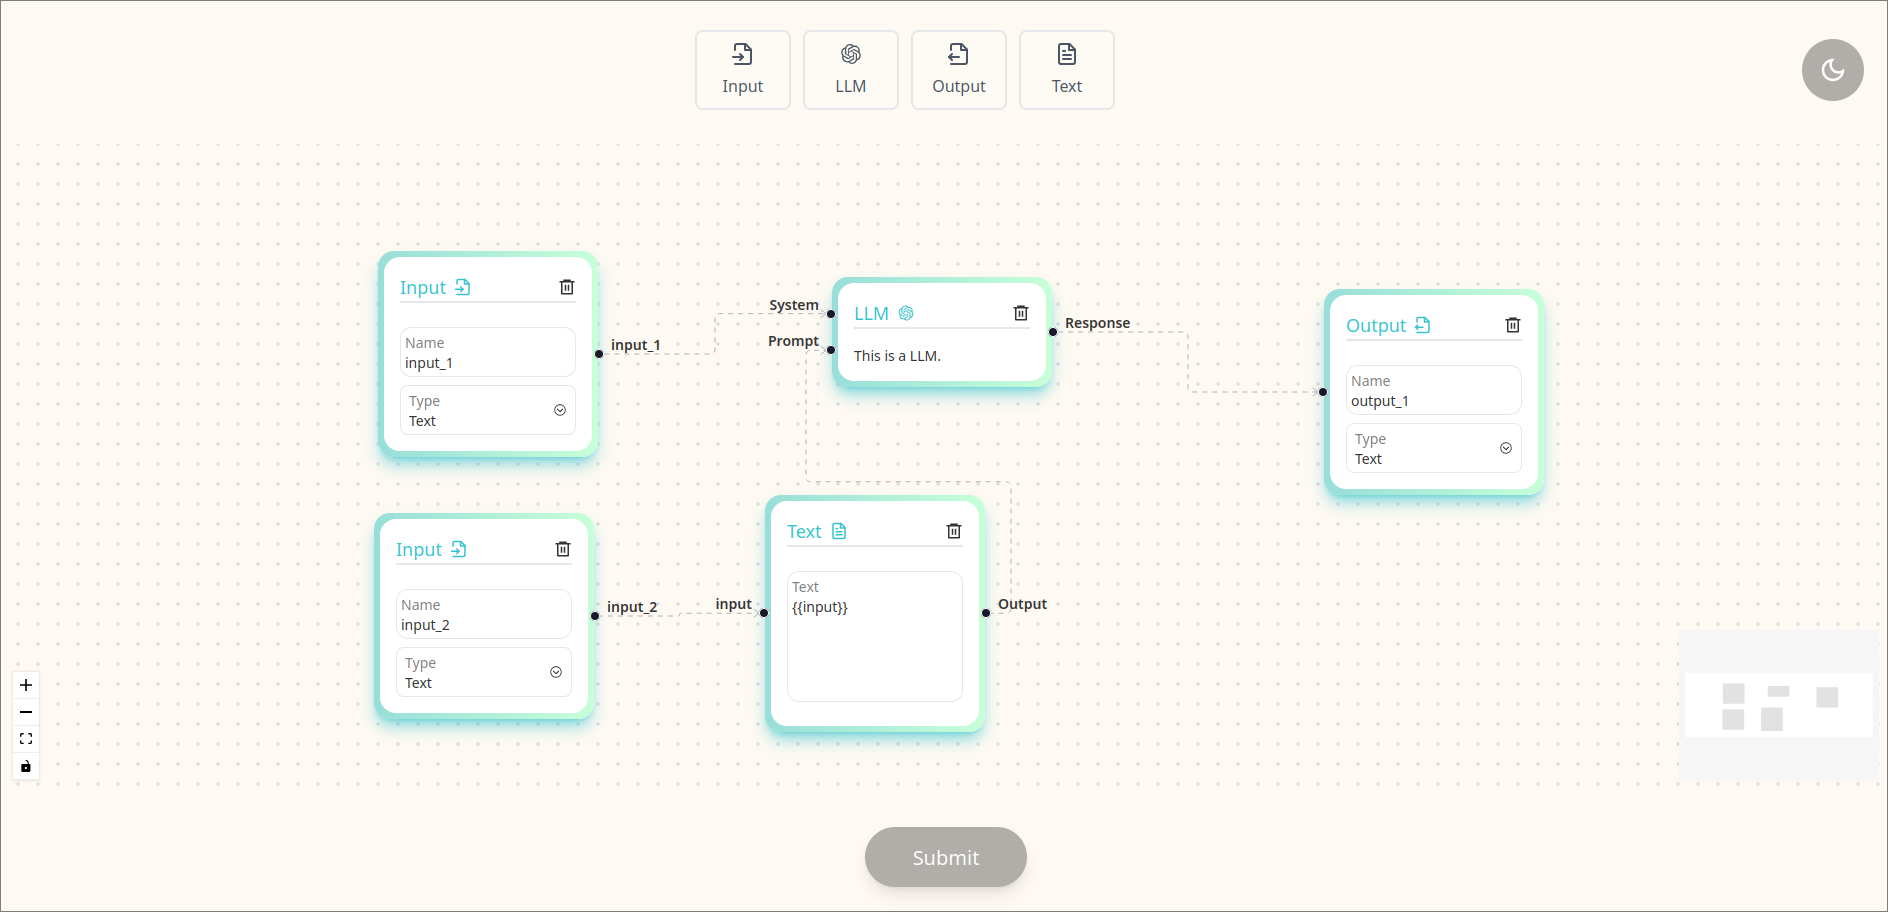
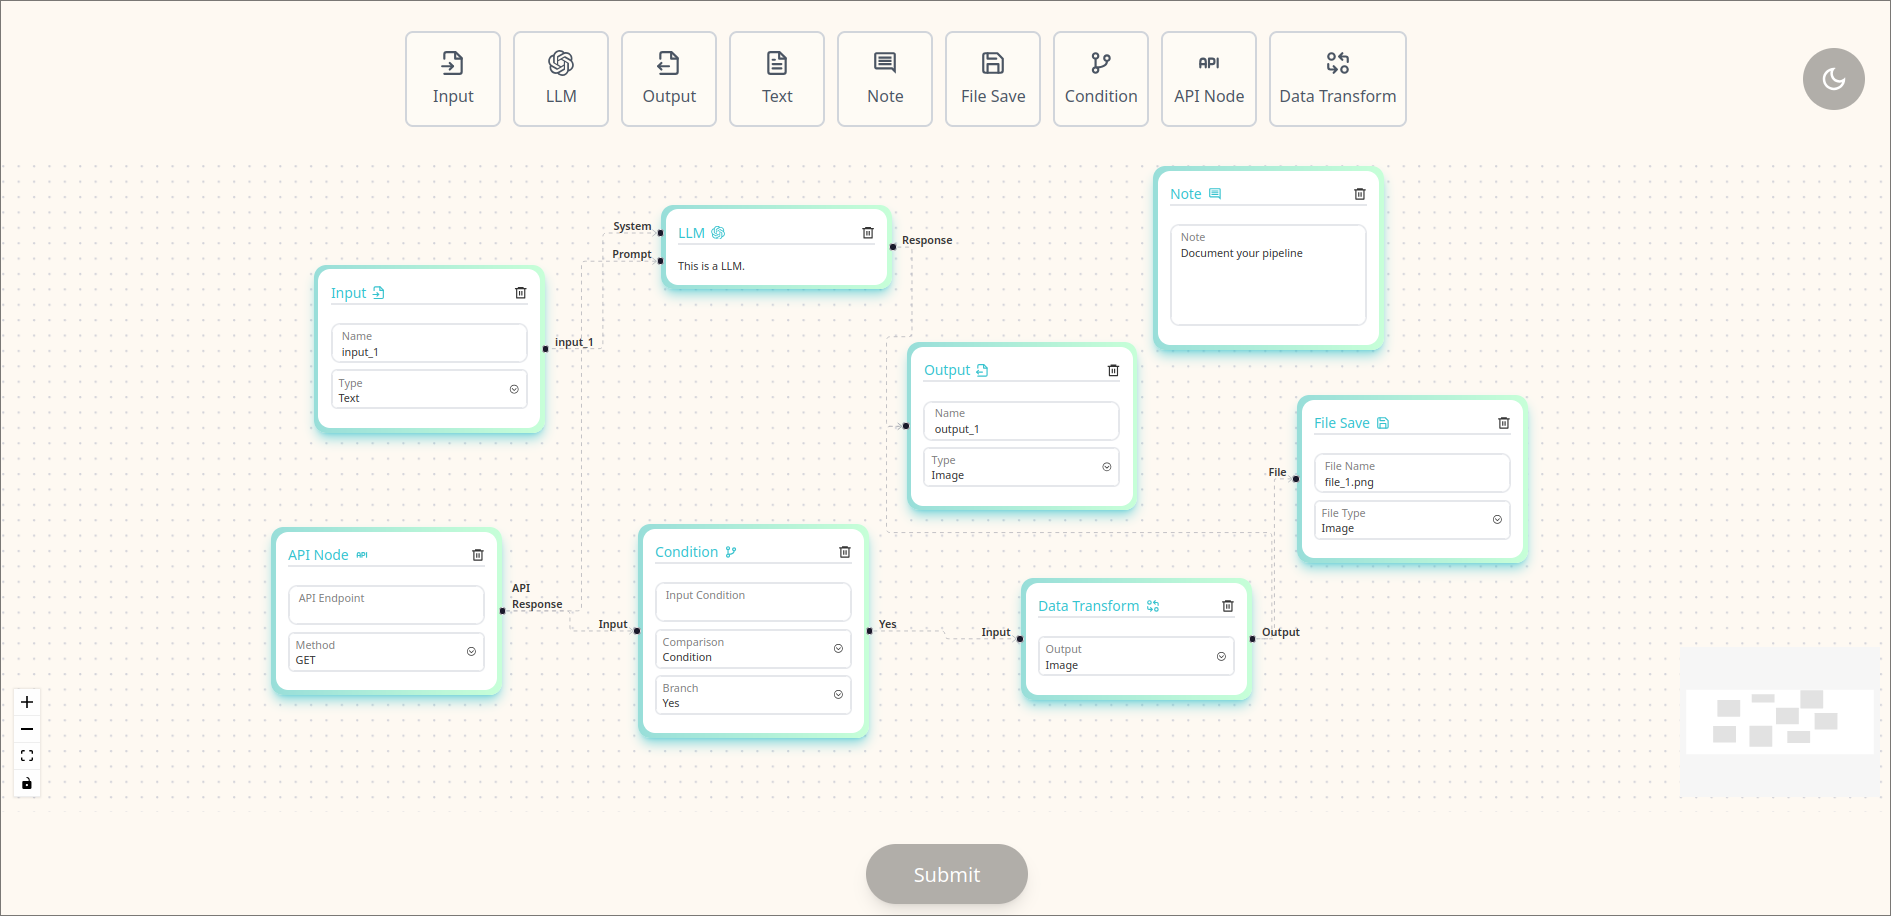
Final readme before submission

diff --git a/src/utils/constants/nodesList.js b/src/utils/constants/nodesList.js
@@ -3,7 +3,6 @@ import { LLMNode } from "../../components/nodes/llm";
 import { TextNode } from "../../components/nodes/text";
 import { OutputNode } from "../../components/nodes/output";
 import { LuFileText, LuFileInput, LuFileOutput, LuSave } from "react-icons/lu";
-import { RiOpenaiFill } from "react-icons/ri";
 import { NoteNode } from "../../components/nodes/note";
 import { MdOutlineComment } from "react-icons/md";
 import { FileSaveNode } from "../../components/nodes/fileSave";

diff --git a/README.md b/README.md
@@ -28,7 +28,7 @@ This consists of 3 main folders
 3. ui - Consists of components that are on the homepage.
 
 **2. Store**
-1. NodeStore - Zustand store for handling logic for nodes on the canvas. I added an extra functionality for the nodes to be deleted.
+1. NodeStore - Zustand store for handling logic for nodes on the canvas. I added an extra functionality for the nodes to be deleted and also for an edge to be deleted if we have source handle.
 
 2. ThemeStore - Zustand store which manages theme for the user. It stores the theme in local storage to remember user's preference. If no local theme inside local storage it uses user's system theme as default!
 
@@ -37,18 +37,37 @@ Utility functions that are used in multiple files
 
 1. Constants
     1. NodeList - A central place to manage nodes. The nodes array is used for the ui to render the toolbar, then also for reactflow component to let it know what type of nodes are present in the application. To add/delete a node simply add a new entry to the list and it will get updated everywhere!
+
 2. Helper
     1. nodeHelper - A general helper function for all nodes
     2. NodeMapperUI - Builds node and their type object required for Reactflow based on the nodes list constant.
-    3. TextNodeHelper - Helper function for specifically text node since they contain the dynamic nature of javascript. Contains a regex pattern which is matched and returns an array of string which are mapped over to display handler in Text Node.
+
 3. Hooks
-    1. useFocus - Abstracted implementation to know which input/textarea is active and apply styles for user visibility. Pass ref as the parameter and it manages event handlers under the hood. Also has a cleanup function to remove event handlers when the component gets unmounted from the DOM.
+    1. useFocus - Abstracted implementation to know which input/textarea is active and apply styles for user visibility. Pass the reference of input/textarea as the parameter and it manages event handlers under the hood. Also has a cleanup function to remove event handlers when the component gets unmounted from the DOM.
 
 ---
 
 ## Explanation of my implementation for different parts
 
 ### Part 1: Node Abstraction
+My approach to solving this was thinking of nodes which have their own logic which they can pass to a component and it handles the rest. The logic is unique to the node but resuable component which are shared by every node. I thought of node-builder as building blocks for the node hence the name node-builder.
+
+**Steps to add a new Node**
+1. Create builder for the node if it doesn't exists inside node-builder.
+2. Create a Node along with it's own logic and state to use the node-builder blocks to achieve desired configuration.
+3. Add the newly created node to NodesList constant inside utils/constants/
+
+Woohoo in just 3 steps a new node can be made!
+Following this approach I have made 5 extra Nodes as per the Part 1 of the problem statement.
+1. Note Node - This is not a part of pipeline but serves a purpose for documentation.
+
+2. File Save Node  - Provides options to the user to save intermediate/output locally on their machine in image or text format.
+
+3. Condition Node - Used when the user might want to branch out the logic and implement if --> then into their pipeline. User can pick if they had like to branch out or do nothing based on the condition.
+
+4. API Node - Helps the user when they might want to make external api calls and use the response data in their pipeline. Node provides option to also make POST request upon which input textarea for body appears.
+
+5. Data Transformation Node - Helps the user perform transformations on data. User can pick from image, pdf, csv, txt, and JSON.
 
 ### Part 2: Styling
 I have picked a theme which resonates with a futuristic vibe for building Pipelines that I feel suits well with VectorShift. The application is available in 2 themes: *Light* and *Dark* this allows the user to work with their preferred theme. I have extended tailwinds colors with accent, primary, and text_secondary.
@@ -59,7 +78,7 @@ Light Theme
 ![Light](./screenshots/light.png)
 
 Dark Theme
-![Dark](./screenshots/Dark.png)
+![Dark](./screenshots/dark.png)
 
 
 ### Part 3: Text Node Logic
